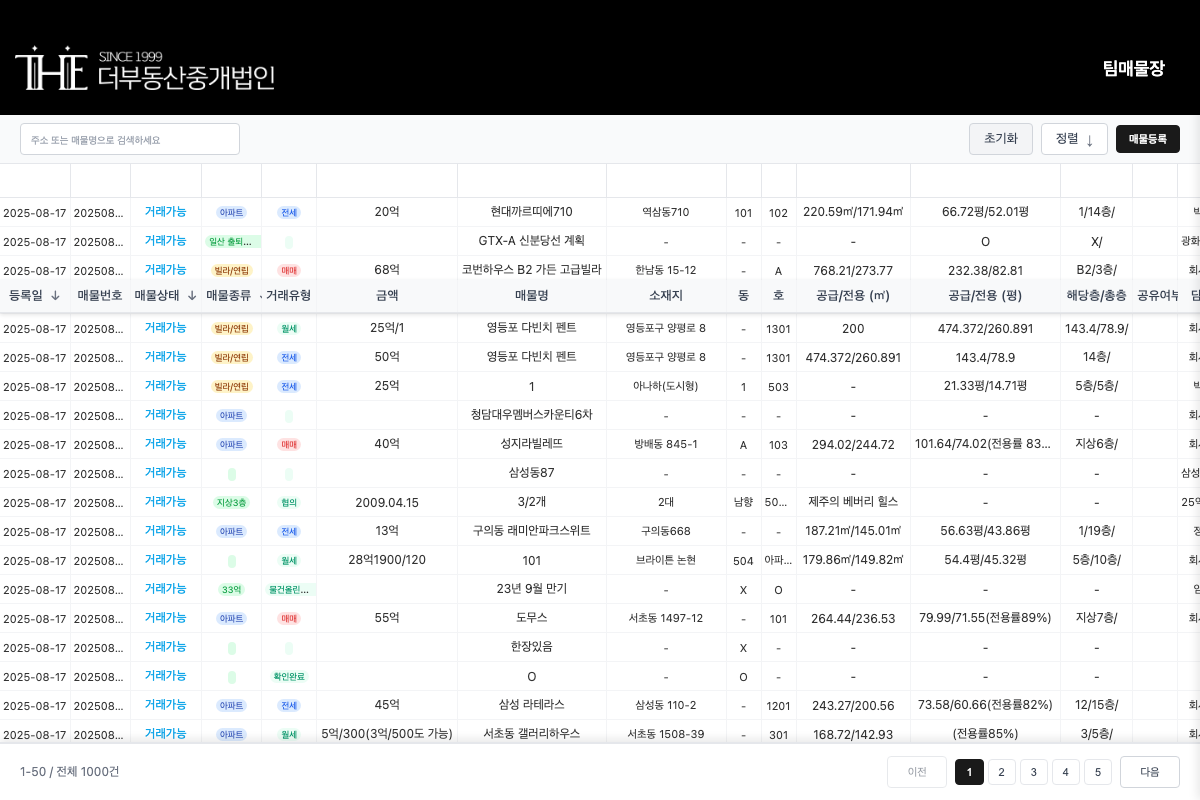
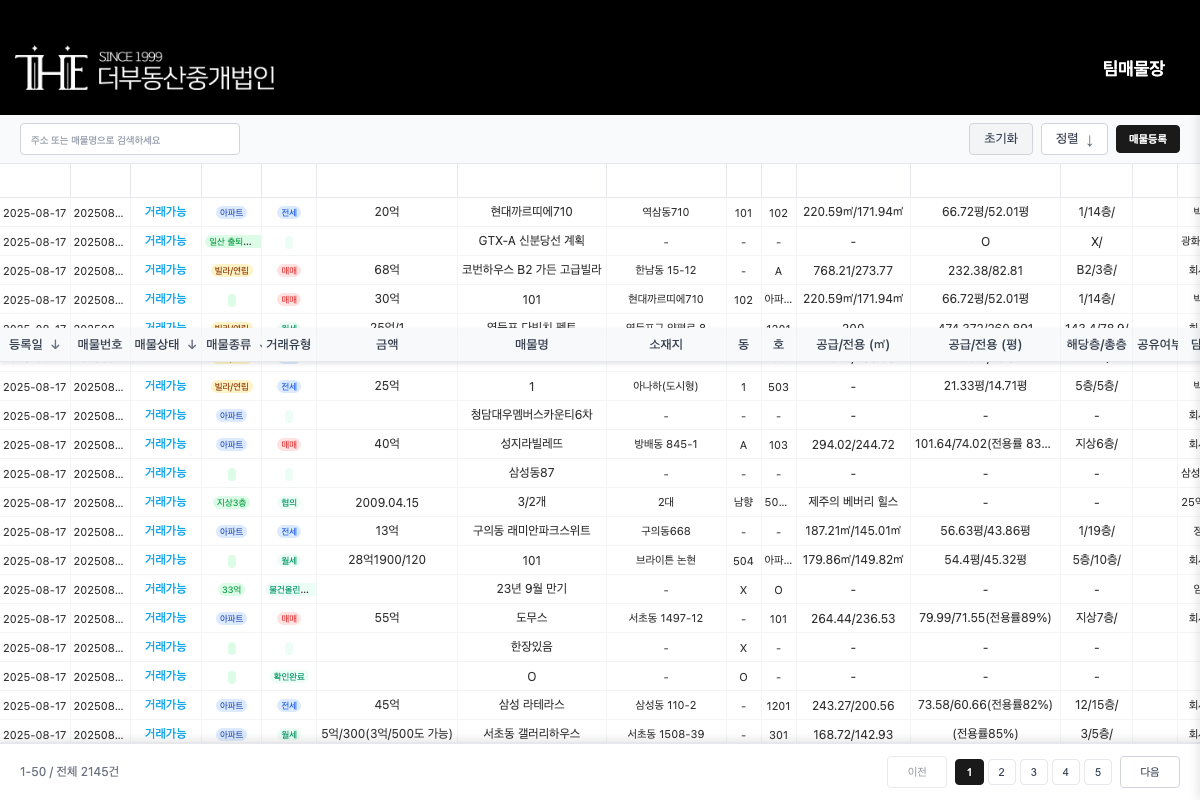
fix: CSS 우선순위 문제 해결을 위해 !important 추가
- 테이블 헤더 sticky positioning에 !important 적용
- 다른 CSS 규칙의 덮어쓰기 방지
- 캐시 버스터 업데이트

🤖 Generated with [Claude Code](https://claude.ai/code)

diff --git a/playwright-report/index.html b/playwright-report/index.html
@@ -74,4 +74,4 @@ Error generating stack: `+u.message+`
   </body>
 </html>
 <script>
[2 lines of base64/hex data omitted]

diff --git a/styles.css b/styles.css
@@ -205,23 +205,23 @@ body {
 }
 
 .data-table thead {
-    position: sticky;
-    top: 164px; /* 헤더(115px) + 필터바(49px) = 164px (실측정값) */
-    z-index: 50;
-    background: #f8f9fa;
-    box-shadow: 0 2px 4px rgba(0, 0, 0, 0.1);
+    position: sticky !important;
+    top: 164px !important; /* 헤더(115px) + 필터바(49px) = 164px (실측정값) */
+    z-index: 50 !important;
+    background: #f8f9fa !important;
+    box-shadow: 0 2px 4px rgba(0, 0, 0, 0.1) !important;
 }
 
 /* 모바일에서 헤더 아래에 테이블 헤더 고정 */
 @media (max-width: 768px) {
     .data-table thead {
-        top: 121px; /* 모바일 헤더(84px) + 모바일 필터바(37px) = 121px (실측정값) */
+        top: 121px !important; /* 모바일 헤더(84px) + 모바일 필터바(37px) = 121px (실측정값) */
     }
 }
 
 @media (max-width: 480px) {
     .data-table thead {
-        top: 121px; /* 소형 모바일 헤더(84px) + 소형 모바일 필터바(37px) = 121px (실측정값) */
+        top: 121px !important; /* 소형 모바일 헤더(84px) + 소형 모바일 필터바(37px) = 121px (실측정값) */
     }
 }
 
@@ -1931,4 +1931,4 @@ body {
  * - 반응형 디자인 최적화
  * - 코드 가독성 향상
  * - 상세 뷰 핵심 정보 강조 디자인 추가
- *//* Cache buster: 1755456189 */
+ *//* Cache buster: 1755456521 */
